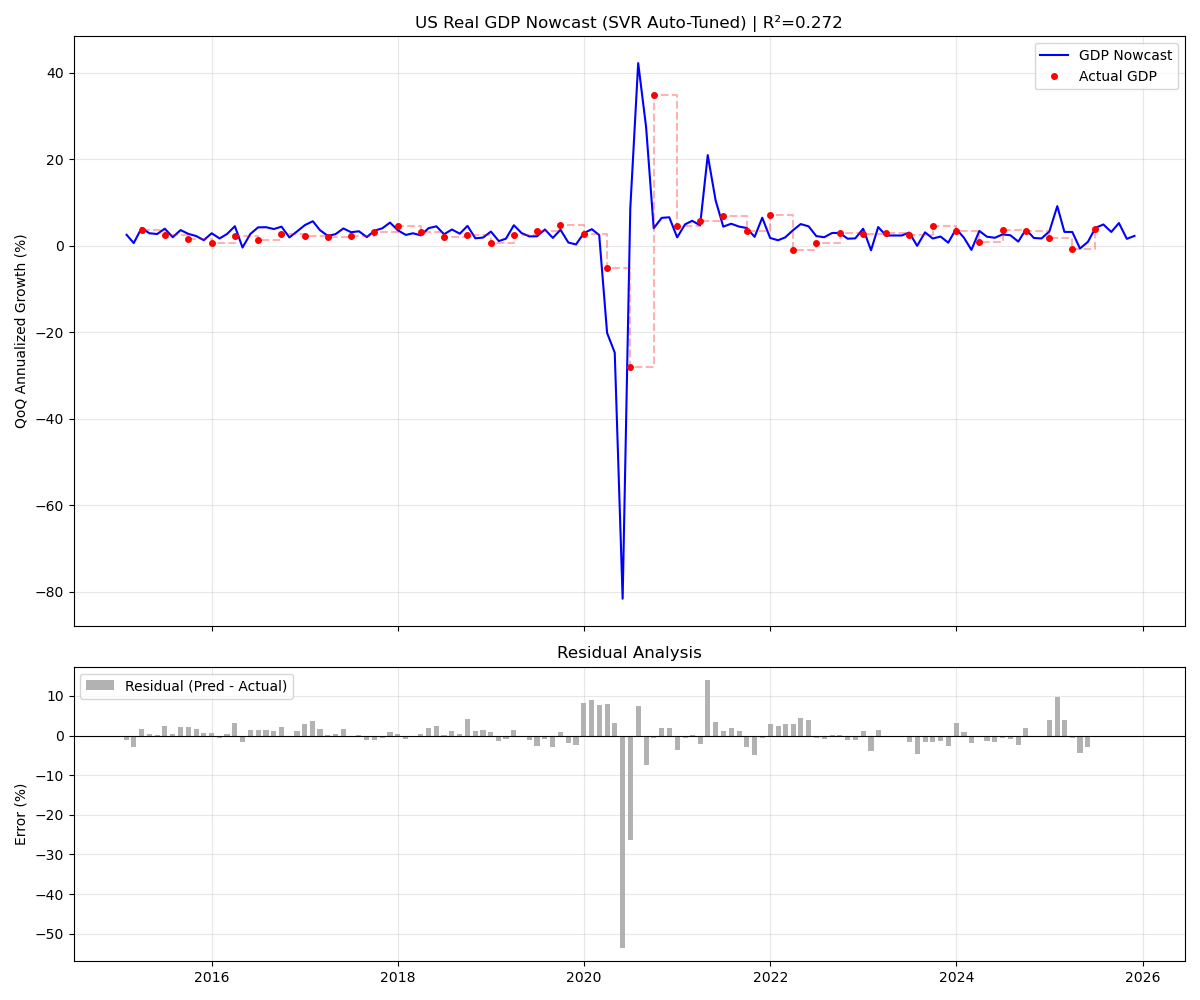
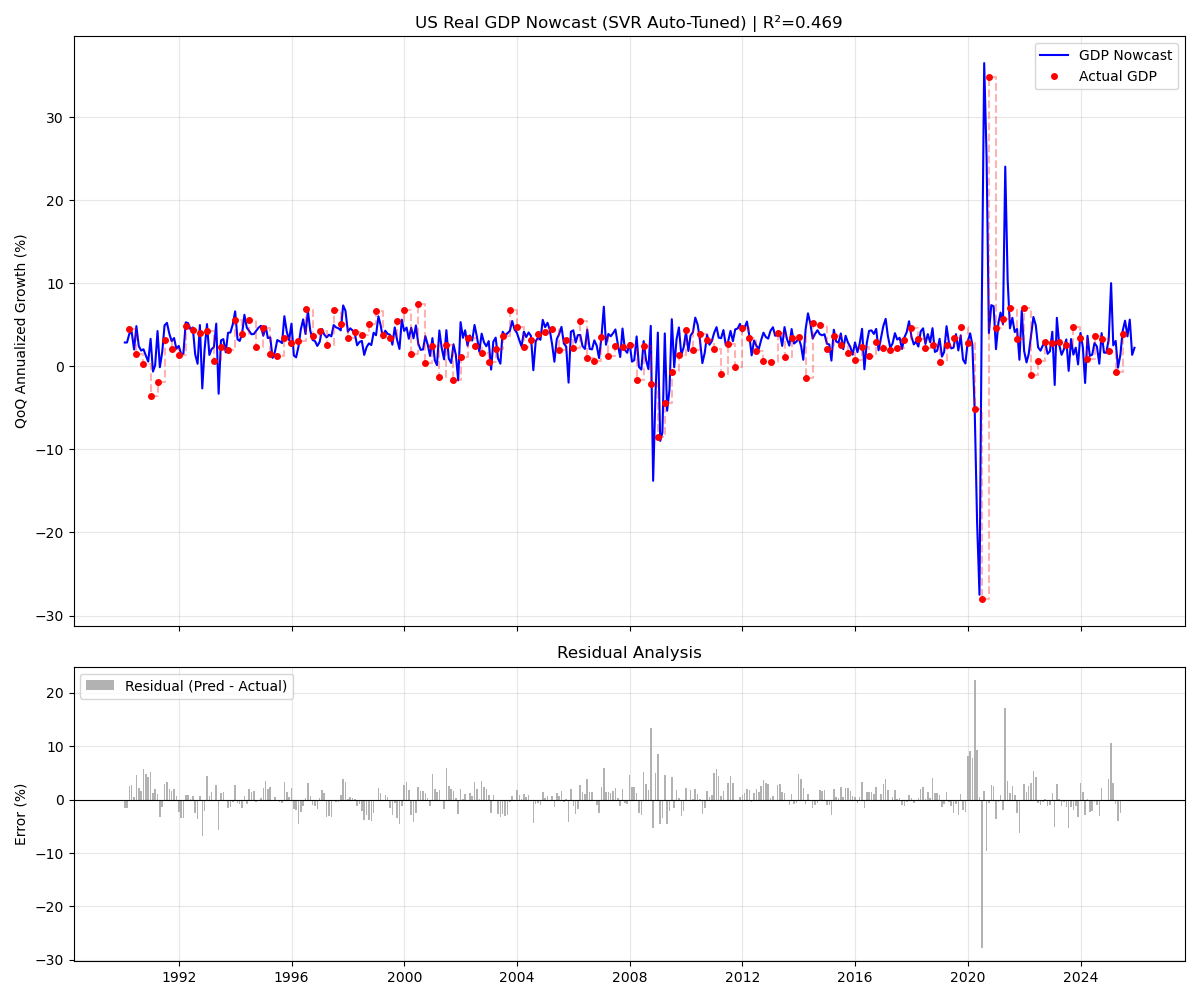
Done, current version works with Ridge

diff --git a/nowcast/features/panel_builder.py b/nowcast/features/panel_builder.py
@@ -1,9 +1,5 @@
-# X, y panel construction
-# nowcast/features/panel_builder.py
-
 import pandas as pd
 from nowcast.data.base import DataProvider
-from nowcast.data.fred import FredDataProvider
 
 class PanelBuilder:
     def __init__(self, provider: DataProvider):
@@ -12,92 +8,48 @@ class PanelBuilder:
     def build_monthly_panel(self, series_list: list[str], end_date: pd.Timestamp | None = None) -> pd.DataFrame:
         """
         构建月度特征面板 (X)。
-        
-        功能：
-        1. 遍历 series_list 获取数据
-        2. 自动识别频率：
-           - 周频 (Weekly) -> 降采样为月频 (Mean)
-           - 月频 (Monthly) -> 重采样对齐到月末 (Last)
-        3. 合并为宽表
-        
-        Args:
-            series_list: series.yaml 中定义的指标名列表
-            end_date: (可选) 截止日期，用于防止未来信息泄露
-            
-        Returns:
-            pd.DataFrame: 索引为月末日期的特征矩阵
+        包含:
+        1. 极值截断 (Clipping): ±4 sigma
+        2. 频率对齐 (Weekly->Mean, Monthly->Last)
         """
         data_dict = {}
         
-        print(f"Building panel with {len(series_list)} indicators...")
+        print(f"Building panel with {len(series_list)} indicators (with 4-sigma clipping)...")
         
         for name in series_list:
-            # 1. 获取基础数据 (已做过 transform)
             try:
                 s = self.provider.get_series(name, end_date=end_date)
             except Exception as e:
                 print(f"⚠ Warning: Failed to load '{name}'. Error: {e}")
                 continue
             
-            # 2. 频率处理与对齐
-            # 判断逻辑：如果数据点密度过高（例如是月度跨度的4倍以上），则视为高频数据
-            # 或者直接依赖 pd.infer_freq (有时不准，所以双重判断)
+            # --- Clipping (Winsorization) ---
+            if len(s) > 10:
+                mean = s.mean()
+                std = s.std()
+                upper = mean + 4 * std
+                lower = mean - 4 * std
+                s = s.clip(lower=lower, upper=upper)
+            
+            # --- Resampling ---
             is_high_freq = False
             inferred_freq = pd.infer_freq(s.index)
             
             if inferred_freq == 'W' or (len(s) > 0 and (s.index[-1] - s.index[0]).days / len(s) < 20):
                 is_high_freq = True
 
+            # 使用 'ME' (MonthEnd) 兼容 pandas 2.2+
             if is_high_freq:
-                # 周频 -> 月频：取当月平均值
-                # 例如：初请失业金，月内波动大，取平均更能代表当月水平
                 s_monthly = s.resample('ME').mean()
             else:
-                # 月频 -> 月频：对齐到月末
-                # FRED数据通常是月初(MS)，我们强制转为月末(M)，值不变
                 s_monthly = s.resample('ME').last()
             
             data_dict[name] = s_monthly
 
-        # 3. 合并 DataFrame
-        # outer join 保证即使某些数据历史较短，也能保留长历史的数据
         panel = pd.DataFrame(data_dict)
-        
-        # 4. 排序与最终截断
         panel = panel.sort_index()
+        
         if end_date:
             panel = panel.loc[:end_date]
             
         return panel
-
-# ==========================================
-# 快速自测 (Self-Check)
-# ==========================================
-if __name__ == "__main__":
-    # 运行：python -m nowcast.features.panel_builder
-    try:
-        # 1. 初始化 (使用伪造Key利用本地缓存)
-        provider = FredDataProvider(api_key="offline_mode")
-        
-        # 2. 定义要测试的特征 (混合月度和周度)
-        test_features = [
-            'industrial_production', # 月度
-            'initial_claims',        # 周度 -> 需要被转为月度
-            'payrolls'               # 月度
-        ]
-        
-        # 3. 构建面板
-        builder = PanelBuilder(provider)
-        X = builder.build_monthly_panel(test_features)
-        
-        print("\n--- Panel Constructed ---")
-        print(f"Shape: {X.shape}")
-        print(f"Date Range: {X.index.min().date()} to {X.index.max().date()}")
-        print("\n--- Tail (Last 5 Months) ---")
-        print(X.tail())
-        
-        # 检查是否还有 Weekly 的痕迹 (行数应该大幅减少)
-        print("\n✅ Test passed!")
-        
-    except Exception as e:
-        print(f"\n❌ Test failed: {e}")

diff --git a/run_daily.py b/run_daily.py
@@ -1,0 +1,62 @@
+# run_daily.py
+
+import sys
+import os
+import pandas as pd
+from pathlib import Path
+from datetime import datetime
+
+# --- 1. 自动修复路径问题 ---
+# 无论你在哪里运行这个脚本，它都会自动找到 nowcast 包的位置
+# 获取当前脚本所在的目录
+current_dir = Path(__file__).resolve().parent
+# 将根目录加入 Python 搜索路径
+if str(current_dir) not in sys.path:
+    sys.path.insert(0, str(current_dir))
+
+# 只有设置好路径后，才能导入 nowcast
+try:
+    from nowcast.export.macro_features import build_macro_features
+except ImportError as e:
+    print("❌ 错误: 找不到 nowcast 包。")
+    print(f"请确保 'run_daily.py' 放在项目根目录下 (GDPNowcast/)。")
+    print(f"当前路径: {current_dir}")
+    raise e
+
+# --- 2. 配置部分 ---
+# 输出文件夹
+OUTPUT_DIR = current_dir / "data" / "output"
+# 输出文件名 (固定文件名方便下游读取，也可以加上日期时间戳)
+OUTPUT_FILE = OUTPUT_DIR / "gdp_nowcast_latest.csv"
+
+def main():
+    print("==================================================")
+    print(f"   GDP Nowcast Daily Update - {datetime.now()}")
+    print("==================================================")
+
+    # 1. 确保输出目录存在
+    OUTPUT_DIR.mkdir(parents=True, exist_ok=True)
+
+    # 2. 运行核心计算
+    # start_date 设早一点以保证 Z-Score 计算有足够的历史窗口 (Rolling Window)
+    # end_date=None 表示一直算到今天
+    print("⚙  Running pipeline...")
+    try:
+        daily_df = build_macro_features(start_date="1990-01-01", end_date=None)
+    except Exception as e:
+        print(f"\n❌ Pipeline 运行失败: {e}")
+        return
+
+    # 3. 保存文件
+    print(f"\n💾 Saving to {OUTPUT_FILE}...")
+    daily_df.to_csv(OUTPUT_FILE)
+
+    print("✅ Done! File updated successfully.")
+    print("==================================================")
+    
+    # 打印最后几行确认
+    print("\n[Preview - Last 5 Days]")
+    print(daily_df.tail())
+
+if __name__ == "__main__":
+    main()

diff --git a/nowcast/features/to_daily.py b/nowcast/features/to_daily.py
@@ -1,1 +1,42 @@
-# Convert nowcast to daily features
+# nowcast/features/to_daily.py
+
+import pandas as pd
+import numpy as np
+
+def to_daily_features(nowcast_df: pd.DataFrame, 
+                      market_calendar: pd.DatetimeIndex = None,
+                      window: int = 252) -> pd.DataFrame:
+    """
+    将低频的 Nowcast 结果转换为日频交易信号。
+    """
+    # 1. 确保按时间排序
+    df = nowcast_df.sort_index()
+    
+    # 2. 扩展到日频 (Forward Fill)
+    if market_calendar is not None:
+        daily_df = df.reindex(market_calendar, method='ffill')
+    else:
+        # 如果没有提供日历，就按自然日重采样
+        daily_df = df.resample('D').ffill()
+    
+    # 只保留 nowcast 列，重命名方便识别
+    daily_df = daily_df[['nowcast']].rename(columns={'nowcast': 'gdp_nowcast'})
+    
+    # 3. 计算 Rolling Z-Score (标准化信号)
+    # 加上 min_periods 防止初期数据不足导致计算错误
+    rolling_mean = daily_df['gdp_nowcast'].rolling(window=window, min_periods=60).mean()
+    rolling_std = daily_df['gdp_nowcast'].rolling(window=window, min_periods=60).std()
+    
+    # 加上一个小 epsilon 防止除以 0
+    daily_df['gdp_nowcast_z'] = (daily_df['gdp_nowcast'] - rolling_mean) / (rolling_std + 1e-6)
+    
+    # 4. 生成 Regime 信号
+    conditions = [
+        daily_df['gdp_nowcast_z'] > 0.5,
+        daily_df['gdp_nowcast_z'] < -0.5
+    ]
+    choices = [1, -1]
+    daily_df['growth_regime'] = np.select(conditions, choices, default=0)
+    
+    # 移除前面的空值（因为 rolling 需要窗口）
+    return daily_df.dropna()

diff --git a/nowcast/export/macro_features.py b/nowcast/export/macro_features.py
@@ -1,1 +1,44 @@
 # Main entry point
+# nowcast/export/macro_features.py
+
+import pandas as pd
+from nowcast.pipeline.run_gdp_nowcast import run_backtest
+from nowcast.features.to_daily import to_daily_features
+
+def build_macro_features(start_date: str = "2015-01-01", 
+                         end_date: str = None,
+                         prices_index: pd.DatetimeIndex = None) -> pd.DataFrame:
+    """
+    [对外接口] 构建全套日频宏观特征。
+    
+    流程：
+    1. 运行 Nowcast Pipeline 生成历史预测序列。
+    2. 调用 to_daily_features 转换为日频信号。
+    3. 返回清洗好的 DataFrame。
+    
+    Args:
+        start_date: 开始日期
+        end_date: 结束日期
+        prices_index: (可选) 传入 ETF 价格表的 index，用于对齐交易日
+    
+    Returns:
+        pd.DataFrame: 包含 gdp_nowcast_z, growth_regime 等列
+    """
+    print("🏗 Building Macro Features...")
+    
+    # 1. 获取 Nowcast 原始序列 (Month-End)
+    # 注意：这里我们复用了 pipeline 里的逻辑，它会自动读取本地缓存
+    nowcast_res = run_backtest(start_date=start_date, end_date=end_date, freq="M")
+    
+    # 2. 转换为日频信号
+    daily_features = to_daily_features(nowcast_res, market_calendar=prices_index)
+    
+    print("✅ Macro Features Ready.")
+    print(daily_features.tail())
+    
+    return daily_features
+
+if __name__ == "__main__":
+    # 测试一下接口
+    df = build_macro_features(start_date="2018-01-01")
+    print(df.describe())

diff --git a/readme.md b/readme.md
@@ -1,0 +1,31 @@
+# GDP Nowcast System for All Weather Strategy
+
+## 1. 项目概述
+这是一个轻量级、工程化的美国名义 GDP (Real GDP) 临现预测 (Nowcast) 系统。
+它的核心目标不是追求学术上的完美 $R^2$，而是**为全天候 (All Weather) 策略提供及时、稳健的宏观增长信号**。
+
+**核心特性：**
+* **Point-in-Time (Vintage) 仿真**：严格避免未来数据泄露，模拟历史每一天“当时”能看到的数据状态（Ragged Edge）。
+* **抗黑天鹅设计**：通过 4-sigma Clipping 和 Robust Scaling，有效应对 2020 年疫情导致的极端数据冲击。
+* **自动化流水线**：一键更新数据、训练模型、生成信号。
+* **纯本地化**：基于本地 CSV 缓存运行，速度极快且不依赖实时 API 连接。
+
+---
+
+## 2. 快速开始 (Quick Start)
+
+### 2.1 环境配置
+1.  安装依赖：
+    ```bash
+    pip install pandas numpy scikit-learn scipy fredapi python-dotenv tqdm matplotlib
+    ```
+2.  配置密钥：
+    在根目录创建 `.env` 文件，填入你的 FRED API Key：
+    ```env
+    FRED_API_KEY=你的32位key
+    ```
+
+### 2.2 日常使用 (Daily Workflow)
+每天只需要运行根目录下的 `run_daily.py`：
+```bash
+python run_daily.py
